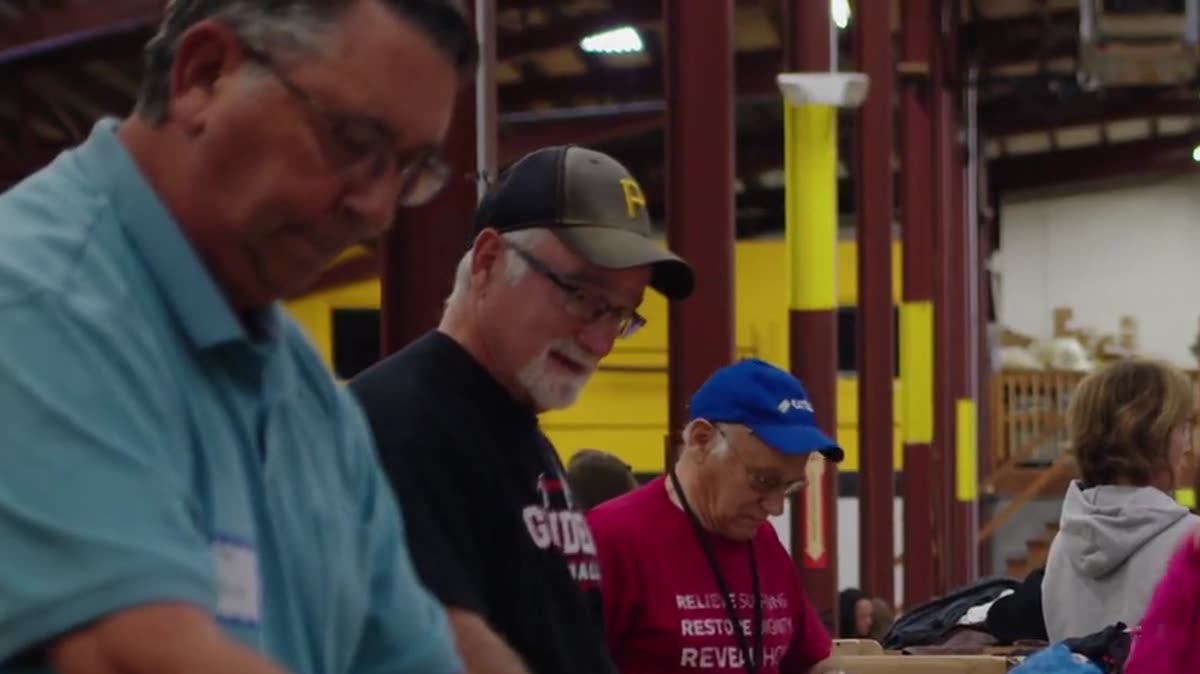
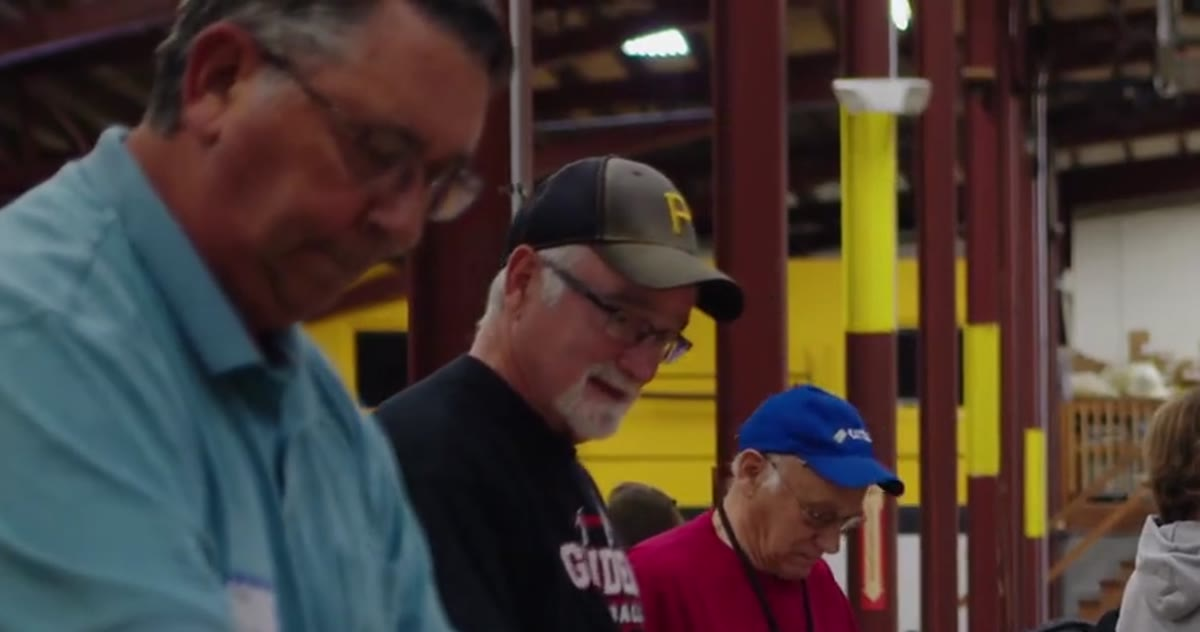
Stills at each video's native aspect, no on-screen text; TTWS curvy scroll timeline with sticky credits

diff --git a/work/the-table-we-share.html b/work/the-table-we-share.html
@@ -47,12 +47,23 @@
         <iframe src="https://player.vimeo.com/video/1131923216?h=78e311f29d&title=0&byline=0&portrait=0&dnt=1"
           title="The Table We Share" allow="autoplay; fullscreen; picture-in-picture" allowfullscreen></iframe>
       </div>
-      <div class="project-info">
-        <div>
+      <div class="project-info has-timeline">
+        <div class="main-col">
           <p class="eyebrow">About</p>
           <p>In America’s breadbasket, a Kansas town confronts the paradox of hunger amid abundance — revealing how community, care, and courage redefine what it means to share the table.</p>
+          <div class="curve-tl">
+            <svg class="curve" aria-hidden="true"><path class="track"/><path class="fill"/></svg>
+            <ol>
+              <li><figure><img src="../img/stills/ttws-still-1.jpg" alt="Title card: The Table We Share, Emmaus House, Garden City, Kansas" loading="lazy"><figcaption>0:52</figcaption></figure></li>
+              <li><figure><img src="../img/stills/ttws-still-3.jpg" alt="A little free library beside red stairs" loading="lazy"><figcaption>1:25</figcaption></figure></li>
+              <li><figure><img src="../img/stills/ttws-still-2.jpg" alt="A man in a work jacket stands in a doorway" loading="lazy"><figcaption>1:48</figcaption></figure></li>
+              <li><figure><img src="../img/stills/ttws-still-4.jpg" alt="A woman wrapped in a blanket outside Emmaus House" loading="lazy"><figcaption>5:12</figcaption></figure></li>
+              <li><figure><img src="../img/stills/ttws-still-5.jpg" alt="People unloading boxes from a truck" loading="lazy"><figcaption>5:28</figcaption></figure></li>
+              <li><figure><img src="../img/stills/ttws-still-6.jpg" alt="A woman pushes a cart across an empty lot" loading="lazy"><figcaption>5:57</figcaption></figure></li>
+            </ol>
+          </div>
         </div>
-        <div>
+        <aside class="side">
           <p class="eyebrow">What I did</p>
           <ul class="roles">
             <li>Director</li>
@@ -68,59 +79,9 @@
             <li><b>Best Short Documentary</b><span>New York Movie Awards</span></li>
             <li><b>Best Inspirational Film</b><span>Florence Film Awards</span></li>
           </ul>
-        </div>
+        </aside>
       </div>
-      <p class="eyebrow stills-label">Shot by shot</p>
-      <ol class="timeline">
-        <li>
-          <span class="tc">0:52</span>
-          <img src="../img/stills/ttws-still-1.jpg" alt="Title card: The Table We Share, Emmaus House, Garden City, Kansas" loading="lazy">
-          <div>
-            <h3>Title</h3>
-            <p>The title lands over a Garden City street, a few seconds after the film’s opening question: “So what right do you have to judge?”</p>
-          </div>
-        </li>
-        <li>
-          <span class="tc">1:25</span>
-          <img src="../img/stills/ttws-still-3.jpg" alt="A little free library beside red stairs" loading="lazy">
-          <div>
-            <h3>Little free library</h3>
-            <p>A red little free library beside the stairs at Emmaus House, while the story of how the house “evolved into the needs of the community” is told: longer shelter, food access.</p>
-          </div>
-        </li>
-        <li>
-          <span class="tc">1:48</span>
-          <img src="../img/stills/ttws-still-2.jpg" alt="A man in a work jacket stands in a doorway" loading="lazy">
-          <div>
-            <h3>In the doorway</h3>
-            <p>A man in a work jacket stands in a doorway as the scale comes in: “about 140 to 240 families that come here to seek food.”</p>
-          </div>
-        </li>
-        <li>
-          <span class="tc">5:12</span>
-          <img src="../img/stills/ttws-still-4.jpg" alt="A woman wrapped in a blanket outside Emmaus House" loading="lazy">
-          <div>
-            <h3>Outside Emmaus House</h3>
-            <p>A woman wrapped in a blanket, backlit by low winter sun, just after “That’s what I want people to know about Emmaus House.”</p>
-          </div>
-        </li>
-        <li>
-          <span class="tc">5:28</span>
-          <img src="../img/stills/ttws-still-5.jpg" alt="People unloading boxes from a truck" loading="lazy">
-          <div>
-            <h3>Unloading</h3>
-            <p>Hands pass boxes down from a truck. No dialogue; the work carries the scene.</p>
-          </div>
-        </li>
-        <li>
-          <span class="tc">5:57</span>
-          <img src="../img/stills/ttws-still-6.jpg" alt="A woman pushes a cart across an empty lot" loading="lazy">
-          <div>
-            <h3>Across the lot</h3>
-            <p>A woman pushes a loaded cart across an empty lot, a wide frame that holds her small against the town.</p>
-          </div>
-        </li>
-      </ol>
+      <script src="../timeline.js" defer></script>
       <a class="more" href="hungry-heartland-ecm.html">Next: Hungry Heartland: ECM →</a>
     </div>
   </section>

diff --git a/styles.css b/styles.css
@@ -129,16 +129,24 @@ a:hover .thumb .watch, a:focus-visible .thumb .watch { opacity: 1; }
 .project-page .stills { margin-top: 14px; }
 .project-page .stills img { aspect-ratio: var(--ar, 16 / 9); }
 
-/* Shot-by-shot timeline */
-.timeline { list-style: none; margin: 24px 0 0; padding: 0 0 0 28px; border-left: 2px solid var(--ink); }
-.timeline li { position: relative; display: grid; grid-template-columns: 1.4fr 1fr; gap: 32px; align-items: center; padding: 0 0 48px; }
-.timeline li:last-child { padding-bottom: 0; }
-.timeline li::before { content: ""; position: absolute; left: -36px; top: 0; width: 14px; height: 14px; background: var(--ink); border-radius: 50%; }
-.timeline .tc { position: absolute; left: 0; top: -26px; font: 500 13px var(--narrow); letter-spacing: .18em; color: var(--muted); }
-.timeline li { margin-top: 30px; }
-.timeline img { width: 100%; aspect-ratio: 16 / 9; object-fit: cover; display: block; }
-.timeline h3 { font-size: 22px; margin: 0 0 10px; }
-.timeline p { margin: 0; color: #333; max-width: 46ch; }
+/* Curvy still timeline (TTWS); driven by timeline.js */
+.project-info.has-timeline { grid-template-columns: 2fr 1fr; align-items: start; }
+.project-info .side { position: sticky; top: 100px; }
+.curve-tl { position: relative; margin-top: 40px; }
+.curve-tl ol { list-style: none; margin: 0; padding: 0; position: relative; z-index: 1; }
+.curve-tl li { display: flex; padding: 22px 0; }
+.curve-tl li:nth-child(even) { justify-content: flex-end; }
+.curve-tl figure { margin: 0; width: 52%; transform: scale(var(--s, 1)); transition: transform .12s linear; }
+.curve-tl li:nth-child(odd) figure { transform-origin: left center; }
+.curve-tl li:nth-child(even) figure { transform-origin: right center; }
+.curve-tl img { width: 100%; aspect-ratio: 16 / 9; object-fit: cover; display: block; box-shadow: 0 10px 30px rgba(17,17,17,.12); }
+.curve-tl figcaption { margin-top: 8px; font: 500 12px var(--narrow); letter-spacing: .18em; color: var(--muted); }
+.curve-tl li:nth-child(even) figcaption { text-align: right; }
+.curve { position: absolute; inset: 0; width: 100%; height: 100%; overflow: visible; pointer-events: none; }
+.curve path { fill: none; stroke-width: 2; stroke-linecap: round; }
+.curve .track { stroke: #d6d1c6; }
+.curve .fill { stroke: var(--ink); }
+.curve circle { fill: var(--paper); stroke: var(--ink); stroke-width: 2; }
 
 .play { position: absolute; left: 16px; bottom: 16px; background: var(--ink); color: var(--paper); padding: 8px 14px;
   font: 500 12px var(--narrow); letter-spacing: .22em; text-transform: uppercase; }
@@ -169,7 +177,12 @@ footer .wrap { display: flex; justify-content: space-between; gap: 16px; flex-wr
   .page-head { padding: 48px 0 0; }
   .film, .about, .services, .project-info, .featured-text, .reel-row, .cards.two, .cards.three { grid-template-columns: 1fr; gap: 32px; }
   .featured-text { gap: 12px; }
-  .timeline li { grid-template-columns: 1fr; gap: 16px; }
+  .project-info.has-timeline { grid-template-columns: 1fr; }
+  .project-info .side { position: static; }
+  .curve-tl li, .curve-tl li:nth-child(even) { justify-content: flex-end; }
+  .curve-tl figure { width: calc(100% - 36px); }
+  .curve-tl li:nth-child(n) figure { transform-origin: center; }
+  .curve-tl li:nth-child(even) figcaption { text-align: left; }
   .featured .thumb img { aspect-ratio: 16 / 9; }
   .stills { grid-template-columns: repeat(2, 1fr); margin-top: 32px; }
   .awards li { flex-direction: column; gap: 2px; }

diff --git a/timeline.js b/timeline.js
@@ -1,0 +1,62 @@
+// Curvy still timeline: draws an S-curve through the stills, fills it as you
+// scroll, and scales each still up as it nears the middle of the screen.
+(() => {
+  const tl = document.querySelector('.curve-tl');
+  if (!tl) return;
+  const svg = tl.querySelector('.curve');
+  const track = svg.querySelector('.track');
+  const fill = svg.querySelector('.fill');
+  const items = [...tl.querySelectorAll('li')];
+  const figs = items.map(li => li.querySelector('figure'));
+  const still = matchMedia('(prefers-reduced-motion: reduce)');
+  let length = 0, dots = [];
+
+  function draw() {
+    const w = tl.clientWidth, h = tl.clientHeight, narrow = w < 560;
+    const pts = [[narrow ? 12 : w / 2, 0]];
+    items.forEach((li, i) => {
+      const y = li.offsetTop + li.offsetHeight / 2;
+      // The line swings into the empty half opposite each still.
+      const x = narrow ? (i % 2 ? 6 : 20) : (i % 2 ? w * 0.24 : w * 0.76);
+      pts.push([x, y]);
+    });
+    pts.push([narrow ? 12 : w / 2, h]);
+    let d = `M${pts[0][0]},${pts[0][1]}`;
+    for (let i = 1; i < pts.length; i++) {
+      const [x0, y0] = pts[i - 1], [x1, y1] = pts[i], my = (y1 - y0) / 2;
+      d += ` C${x0},${y0 + my} ${x1},${y1 - my} ${x1},${y1}`;
+    }
+    svg.setAttribute('viewBox', `0 0 ${w} ${h}`);
+    track.setAttribute('d', d);
+    fill.setAttribute('d', d);
+    length = fill.getTotalLength();
+    fill.style.strokeDasharray = length;
+    dots.forEach(c => c.remove());
+    dots = pts.slice(1, -1).map(([x, y]) => {
+      const c = document.createElementNS('http://www.w3.org/2000/svg', 'circle');
+      c.setAttribute('cx', x); c.setAttribute('cy', y); c.setAttribute('r', 6);
+      svg.appendChild(c);
+      return c;
+    });
+    update();
+  }
+
+  function update() {
+    const vh = innerHeight, r = tl.getBoundingClientRect();
+    const progress = still.matches ? 1 : Math.min(1, Math.max(0, (vh * 0.6 - r.top) / r.height));
+    fill.style.strokeDashoffset = length * (1 - progress);
+    figs.forEach(f => {
+      const b = f.getBoundingClientRect();
+      const dist = Math.abs(b.top + b.height / 2 - vh / 2) / (vh / 2);
+      f.style.setProperty('--s', still.matches ? 1 : (0.72 + 0.4 * Math.max(0, 1 - dist)).toFixed(3));
+    });
+  }
+
+  let ticking = false;
+  addEventListener('scroll', () => {
+    if (!ticking) { ticking = true; requestAnimationFrame(() => { ticking = false; update(); }); }
+  }, { passive: true });
+  addEventListener('resize', draw);
+  tl.querySelectorAll('img').forEach(img => img.complete || img.addEventListener('load', draw, { once: true }));
+  draw();
+})();

diff --git a/work/hungry-heartland-ecm.html b/work/hungry-heartland-ecm.html
@@ -48,26 +48,26 @@
           title="Hungry Heartland: ECM" allow="autoplay; fullscreen; picture-in-picture" allowfullscreen></iframe>
       </div>
       <div class="project-info">
-        <div>
+        <div class="main-col">
           <p class="eyebrow">About</p>
           <p>A portrait of Ecumenical Campus Ministry at Kansas State University. Its director talks about food security as health, sustainability, and community: a kitchen that cooks vegan so everyone can eat, and a yard planted with food.</p>
         </div>
-        <div>
+        <aside class="side">
           <p class="eyebrow">What I did</p>
           <ul class="roles">
             <li>Cinematographer</li>
             <li>Editor</li>
           </ul>
-        </div>
+        </aside>
       </div>
       <p class="eyebrow stills-label">Stills</p>
-      <div class="stills" style="--ar: 2560 / 1072">
-        <img src="../img/stills/ecm-hungry-heartland-1.jpg" alt="The ECM house with its sign beside the porch" loading="lazy">
-        <img src="../img/stills/ecm-hungry-heartland-2.jpg" alt="A hand-painted ECM sign: All are welcome, no strings attached" loading="lazy">
-        <img src="../img/stills/ecm-hungry-heartland-3.jpg" alt="The ECM director smiles at the camera" loading="lazy">
-        <img src="../img/stills/ecm-hungry-heartland-4.jpg" alt="Leaves in the ECM yard garden" loading="lazy">
-        <img src="../img/stills/ecm-hungry-heartland-5.jpg" alt="The director points across the yard toward the garden" loading="lazy">
-        <img src="../img/stills/ecm-hungry-heartland-6.jpg" alt="Kitchen signs explaining why ECM cooks vegan" loading="lazy">
+      <div class="stills" style="--ar: 2558 / 852">
+        <img src="../img/stills/ecm-hungry-heartland-1.jpg" alt="The ECM house at dusk as someone walks past" loading="lazy">
+        <img src="../img/stills/ecm-hungry-heartland-2.jpg" alt="A school bus passes the ECM house" loading="lazy">
+        <img src="../img/stills/ecm-hungry-heartland-3.jpg" alt="The director's hands, clasped" loading="lazy">
+        <img src="../img/stills/ecm-hungry-heartland-4.jpg" alt="The director in a scarf in the yard" loading="lazy">
+        <img src="../img/stills/ecm-hungry-heartland-5.jpg" alt="An elderberry bush in front of ECM" loading="lazy">
+        <img src="../img/stills/ecm-hungry-heartland-6.jpg" alt="The director walks into the kitchen" loading="lazy">
       </div>
       <a class="more" href="hunger-free-kansas-cowley.html">Next: Hunger Free Kansas: Cowley County →</a>
     </div>

diff --git a/work/hunger-free-kansas-cowley.html b/work/hunger-free-kansas-cowley.html
@@ -48,26 +48,26 @@
           title="Hunger Free Kansas: Cowley County" allow="autoplay; fullscreen; picture-in-picture" allowfullscreen></iframe>
       </div>
       <div class="project-info">
-        <div>
+        <div class="main-col">
           <p class="eyebrow">About</p>
           <p>How Cowley County, Kansas, feeds its neighbors: food pantry volunteers, a commodities food distribution, K-State Extension, church ministries, and a community garden.</p>
         </div>
-        <div>
+        <aside class="side">
           <p class="eyebrow">What I did</p>
           <ul class="roles">
             <li>Producer</li>
             <li>Editor</li>
           </ul>
-        </div>
+        </aside>
       </div>
       <p class="eyebrow stills-label">Stills</p>
       <div class="stills" style="--ar: 2732 / 1040">
-        <img src="../img/stills/hfk-cowley-1.jpg" alt="Fresh produce in a food pantry basket" loading="lazy">
-        <img src="../img/stills/hfk-cowley-2.jpg" alt="Volunteers load boxes of food into a car" loading="lazy">
-        <img src="../img/stills/hfk-cowley-3.jpg" alt="Children cook together in a kitchen" loading="lazy">
-        <img src="../img/stills/hfk-cowley-4.jpg" alt="Volunteers water a community garden" loading="lazy">
-        <img src="../img/stills/hfk-cowley-5.jpg" alt="Wildflowers in the community garden" loading="lazy">
-        <img src="../img/stills/hfk-cowley-6.jpg" alt="First Baptist Church Manna Ministries" loading="lazy">
+        <img src="../img/stills/hfk-cowley-1.jpg" alt="The community food pantry in Winfield" loading="lazy">
+        <img src="../img/stills/hfk-cowley-2.jpg" alt="The Joseph's Storehouse sign on North Main" loading="lazy">
+        <img src="../img/stills/hfk-cowley-3.jpg" alt="Don Williams at the commodities food distribution" loading="lazy">
+        <img src="../img/stills/hfk-cowley-4.jpg" alt="The Burden water tower above a playground" loading="lazy">
+        <img src="../img/stills/hfk-cowley-5.jpg" alt="Amy Jo McWhirt among bagged groceries" loading="lazy">
+        <img src="../img/stills/hfk-cowley-6.jpg" alt="A volunteer pulls a wagon of groceries through the barn" loading="lazy">
       </div>
       <a class="more" href="the-story-of-harim.html">Next: The Story of Harim →</a>
     </div>

diff --git a/work/the-story-of-harim.html b/work/the-story-of-harim.html
@@ -48,26 +48,26 @@
           title="The Story of Harim" allow="autoplay; fullscreen; picture-in-picture" allowfullscreen></iframe>
       </div>
       <div class="project-info">
-        <div>
+        <div class="main-col">
           <p class="eyebrow">About</p>
           <p>Harim, an Unto partner in South Sudan, was threatened for following Jesus and kept going home anyway. When his village’s only water made people sick, Unto and local staff drilled a well, and the village gathered around it.</p>
         </div>
-        <div>
+        <aside class="side">
           <p class="eyebrow">What I did</p>
           <!-- TODO(Brock): no on-screen credit for this one. Add your role(s), e.g. <li>Editor</li>. -->
           <ul class="roles">
             <li>Role to confirm</li>
           </ul>
-        </div>
+        </aside>
       </div>
       <p class="eyebrow stills-label">Stills</p>
       <div class="stills" style="--ar: 2048 / 1080">
         <img src="../img/stills/unto-harim-1.jpg" alt="A thatched hut in South Sudan" loading="lazy">
-        <img src="../img/stills/unto-harim-2.jpg" alt="Four men walk through tall grass" loading="lazy">
+        <img src="../img/stills/unto-harim-2.jpg" alt="Four men walk through the palms" loading="lazy">
         <img src="../img/stills/unto-harim-3.jpg" alt="The narrator speaks to camera" loading="lazy">
-        <img src="../img/stills/unto-harim-4.jpg" alt="Water drawn from a muddy pool" loading="lazy">
-        <img src="../img/stills/unto-harim-5.jpg" alt="Children pump water from a new well" loading="lazy">
-        <img src="../img/stills/unto-harim-6.jpg" alt="A boy smiles at the well" loading="lazy">
+        <img src="../img/stills/unto-harim-4.jpg" alt="A bowl of muddy drinking water" loading="lazy">
+        <img src="../img/stills/unto-harim-5.jpg" alt="Children at the new well pump" loading="lazy">
+        <img src="../img/stills/unto-harim-6.jpg" alt="Children wave and cheer" loading="lazy">
       </div>
       <a class="more" href="world-humanitarian-day.html">Next: World Humanitarian Day →</a>
     </div>

diff --git a/work/global-logistics-center.html b/work/global-logistics-center.html
@@ -48,17 +48,17 @@
           title="Visiting the Global Logistics Center" allow="autoplay; fullscreen; picture-in-picture" allowfullscreen></iframe>
       </div>
       <div class="project-info">
-        <div>
+        <div class="main-col">
           <p class="eyebrow">About</p>
           <p>A volunteer orientation for Unto’s 70,000-square-foot Global Logistics Center, where volunteers sew, sort, and pack humanitarian aid bound for more than 25 countries.</p>
         </div>
-        <div>
+        <aside class="side">
           <p class="eyebrow">What I did</p>
           <!-- TODO(Brock): no on-screen credit for this one. Add your role(s), e.g. <li>Editor</li>. -->
           <ul class="roles">
             <li>Role to confirm</li>
           </ul>
-        </div>
+        </aside>
       </div>
       <p class="eyebrow stills-label">Stills</p>
       <div class="stills" style="--ar: 2048 / 1080">
@@ -66,8 +66,8 @@
         <img src="../img/stills/unto-glc-2.jpg" alt="Volunteers pack aid at a long table" loading="lazy">
         <img src="../img/stills/unto-glc-3.jpg" alt="Two volunteers work side by side" loading="lazy">
         <img src="../img/stills/unto-glc-4.jpg" alt="The warehouse floor full of volunteers" loading="lazy">
-        <img src="../img/stills/unto-glc-5.jpg" alt="Volunteers sort clothing" loading="lazy">
-        <img src="../img/stills/unto-glc-6.jpg" alt="Pallets stacked on warehouse shelves" loading="lazy">
+        <img src="../img/stills/unto-glc-5.jpg" alt="Volunteers in a warehouse aisle" loading="lazy">
+        <img src="../img/stills/unto-glc-6.jpg" alt="Beads sorted in a tray" loading="lazy">
       </div>
       <a class="more" href="the-table-we-share.html">Next: The Table We Share →</a>
     </div>

diff --git a/work/world-humanitarian-day.html b/work/world-humanitarian-day.html
@@ -48,17 +48,17 @@
           title="World Humanitarian Day" allow="autoplay; fullscreen; picture-in-picture" allowfullscreen></iframe>
       </div>
       <div class="project-info">
-        <div>
+        <div class="main-col">
           <p class="eyebrow">About</p>
           <p>A World Humanitarian Day short for Unto on hunger and the places basic needs go unmet, and on the Cru staff teams who bring food, clean water, and critical aid to them.</p>
         </div>
-        <div>
+        <aside class="side">
           <p class="eyebrow">What I did</p>
           <!-- TODO(Brock): no on-screen credit for this one. Add your role(s), e.g. <li>Editor</li>. -->
           <ul class="roles">
             <li>Role to confirm</li>
           </ul>
-        </div>
+        </aside>
       </div>
       <p class="eyebrow stills-label">Stills</p>
       <div class="stills" style="--ar: 2048 / 1080">
